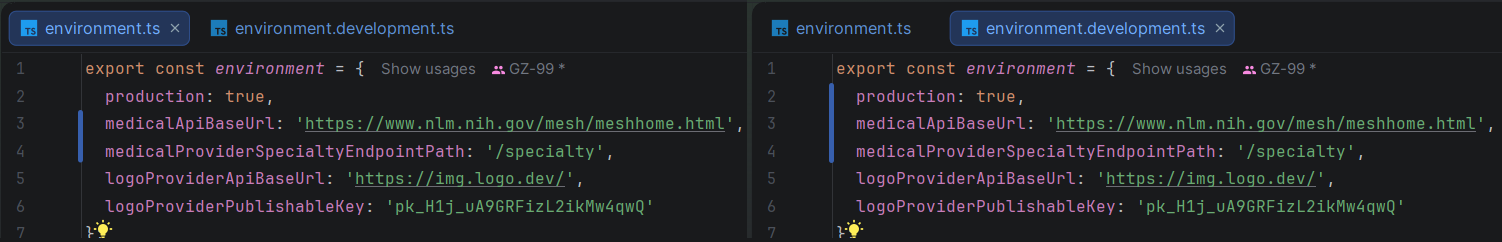
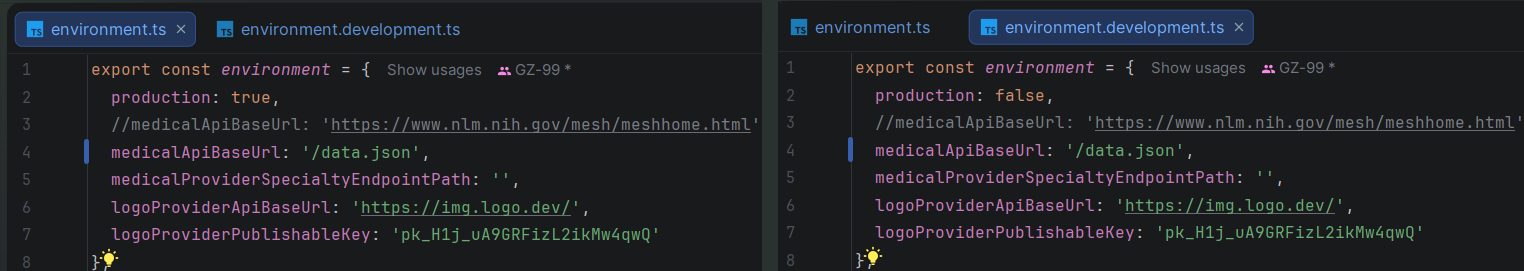
docs: update 7

diff --git a/manual/MANUAL.md b/manual/MANUAL.md
@@ -1,5 +1,9 @@
 # REPASO 1 - OPEN SOURCE (Desarrollando un examén pasado)
 
+Repositorio de apoyo 1: https://github.com/GZ-99/Catch-Up-Main-OpenSource2026
+<br>
+Repositorio de apoyo 2: https://github.com/GZ-99/Catch-Up-Master-OpenSource2026
+
 ## CREAR PROYECTO
 
 Al empezar, selecciona estas opciones y crea el proyecto:
@@ -30,6 +34,8 @@ Para empezar, hay que ejecutar:
 
 ```bash
 ng add @angular/material
+npm install @ngx-translate/core
+npm install @ngx-translate/http-loader
 ng g c shared/presentation/components/footer
 ng g c shared/presentation/components/toolbar
 ng g c shared/presentation/components/language-switcher
@@ -46,6 +52,15 @@ Luego, tienes que desarrollar estos archivos:
 <app-footer/>
 ```
 * Luego, desarrollas los arhivos de "toolbar".
+* Después, desarrollas los archivos de "language-switcher"
+
+### i18n
+
+Basandote en lo que dice el problema, haces los archivos "en.json" y "es.json"
+
+<img src="imagenes/case1.png">
+
+<img src="imagenes/i18n.png">
 
 ### Medical
 
@@ -62,6 +77,10 @@ Así deben quedar (Incluso si hay sub clases, solhaz un entity del principal):
 
 <img src="imagenes/medical_structure1.png">
 
+###  Data (Por si acaso)
+
+En caso de que el url que te pasen no funcione o simplemente te pasen una base de datos, en la carpeta "public", debes agregarlo como "data.json"
+
 ### Environments
 
 Ejecuta esto:
@@ -75,7 +94,7 @@ Así deben quedar los 2 archivos:
 
 ### Medical
 
-Añades el archivo "top-headlines-response", ejecutas esto y eliminas el archivo que termina en ".spec.ts":
+Ejecutas estos commandos y eliminas los archivo que termina en ".spec.ts":
 
 ```bash
 ng g interface medical/infrastructure/specialty-response
@@ -103,4 +122,29 @@ Así debe quedar:
 
 <img src="imagenes/medical_structure3.png">
 
-<img src="">
+Así deben quedar los archivos:
+
+* "medical-page.ts":
+<br><img src="imagenes/ts.png">
+* "medical-page.html": Aquí se organiza todos los datos con sus traducciones
+<br><img src="imagenes/html.png">
+* "medical-page.css":
+<br><img src="imagenes/css.png">
+
+### Shared
+
+Luego debes modificar los archivos "layout", para conectarlo con lo demás
+
+## TERMINAR PROYECTO
+
+Finalmente, hay que modificar los archivos "app.ts" y "app.html":
+
+<img src="imagenes/app.png">
+
+Al mismo tiempo que tienes que configurar el archivo "app.config.ts" de esta forma:
+
+<img src="imagenes/app-config.png">
+
+Este es el resultado final:
+
+<img src="imagenes">
